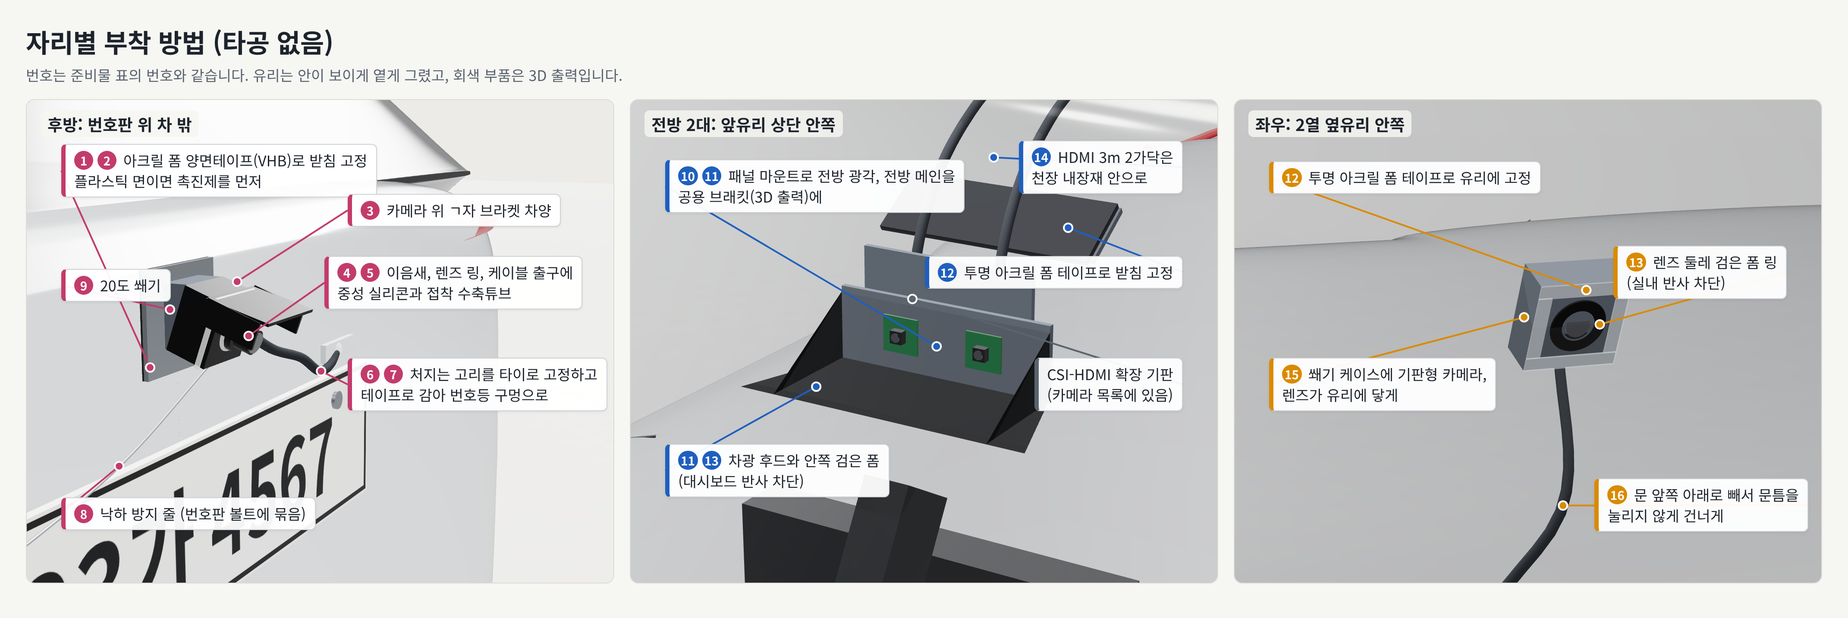
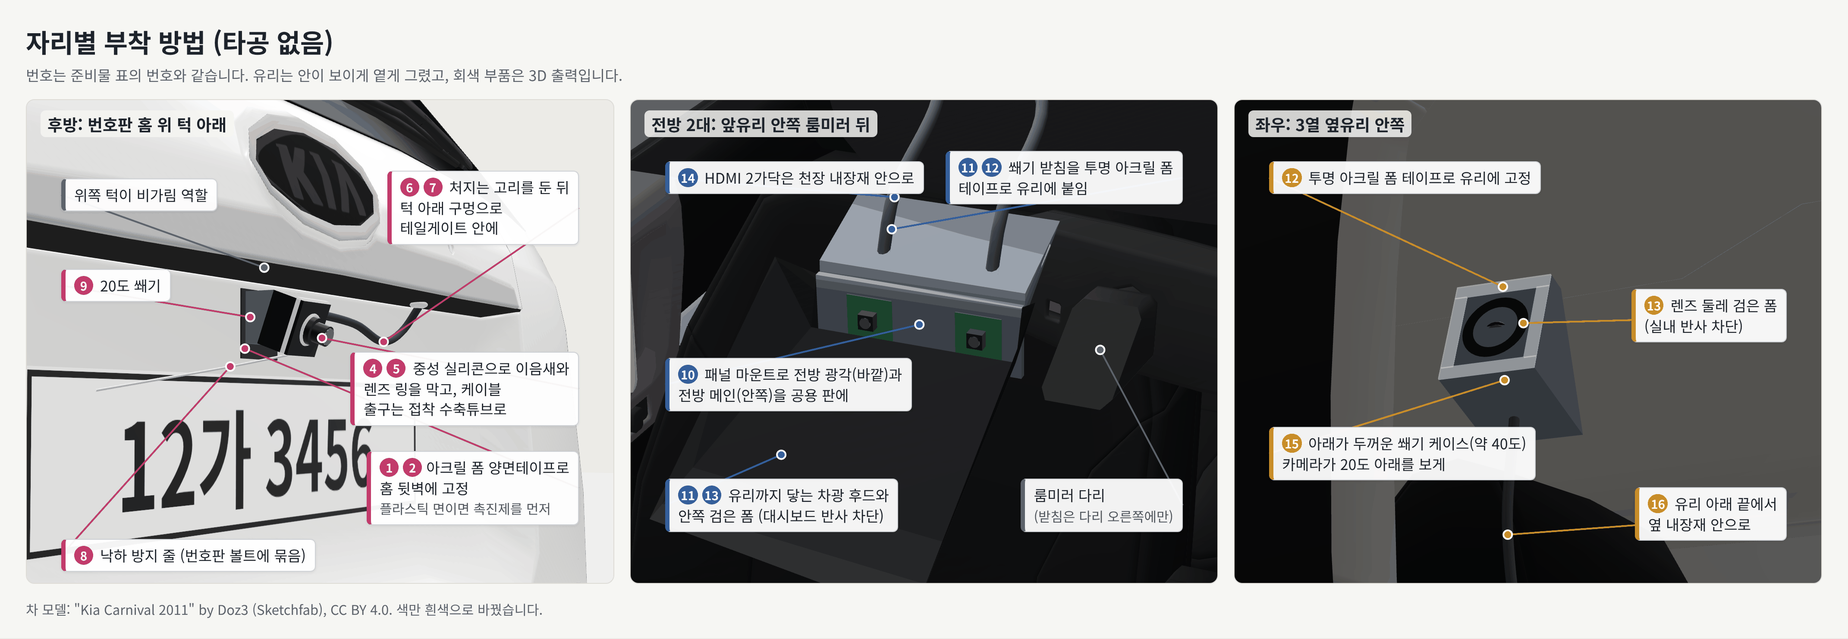
카니발 3D 모델로 카메라 자리 재기: 유리 각도와 쐐기각, 차체 가림, 배선 길이, 카니발 차체로 대수 시뮬레이션 다시 돌리기, 장착 그림 3장 다시 그리기

diff --git a/realityview/layout_sim.py b/realityview/layout_sim.py
@@ -114,6 +114,12 @@ MOUNTS: dict[str, tuple[tuple[float, float, float], float, float]] = {
     "side_glass": ((0.95, 0.82, 1.20), 90.0, 15.0),  # 2열 옆유리 앞쪽 안쪽
     # 사이드미러 아래(주차 보조 카메라가 달리는 자리). 좌표는 추정이다.
     "mirror": ((2.05, 1.03, 1.02), 90.0, 20.0),
+    # 기아 카니발 2011 롱바디(set_vehicle("carnival")와 함께 쓴다). 3D 모델에서 잰 자리다(20번 측정 문서).
+    "cv_wind_wide": ((2.244, -0.125, 1.53), 0.0, 3.0),  # 룸미러 다리 오른쪽, 전방 광각
+    "cv_wind_main": ((2.246, -0.065, 1.53), 0.0, 3.0),  # 룸미러 다리 오른쪽, 전방 메인
+    "cv_rear": ((-0.965, 0.00, 1.03), 180.0, 20.0),  # 번호판 홈 위 턱 아래
+    "cv_side2": ((1.15, 0.816, 1.378), 90.0, 20.0),  # 2열 슬라이딩 도어 유리 앞쪽 안쪽
+    "cv_side3": ((0.28, 0.812, 1.378), 90.0, 20.0),  # 3열 옆유리 안쪽
 }
 
 # 유리 안쪽에 달면 창틀(기둥)이 좌우 시야를 막는다. 값: (창이 향한 방향 도, 그 방향에서 좌우로 보이는 각 도).
@@ -184,10 +190,17 @@ class Layout:
         return sum(s.link == "usb" for s in self.specs)
 
 
+def _vmount(name: str) -> str:
+    """앞유리와 후방 자리 이름을 지금 차종의 자리로 바꾼다(카니발이면 cv_ 자리)."""
+    if VEHICLE == "carnival" and name in ("wind_wide", "wind_main", "rear"):
+        return "cv_" + name
+    return name
+
+
 def _front(wide: str = "cm3_wide", main: bool = False) -> list[CamSpec]:
-    out = [CamSpec("front", wide, "wind_wide", link="csi")]
+    out = [CamSpec("front", wide, _vmount("wind_wide"), link="csi")]
     if main:
-        out.append(CamSpec("front_main", "cm3", "wind_main", link="csi"))
+        out.append(CamSpec("front_main", "cm3", _vmount("wind_main"), link="csi"))
     return out
 
 
@@ -195,12 +208,30 @@ def side_layout(key: str, title: str, lens: str, mount: str, yaw: float | None =
                 main: bool = True, rear_lens: str = "imx291_160", rear_mount: str = "rear",
                 front_wide: str = "cm3_wide") -> Layout:
     """전방(광각, main이면 메인도), 후방, 좌우 한 쌍으로 된 배치. 좌우 카메라의 렌즈, 자리, 방향을 바꿔 볼 때 쓴다."""
-    return Layout(key, title, (*_front(front_wide, main), CamSpec("rear", rear_lens, rear_mount),
+    return Layout(key, title, (*_front(front_wide, main), CamSpec("rear", rear_lens, _vmount(rear_mount)),
                                *side_pair(lens, mount, yaw, pitch)))
 
 
+def _carnival_layouts(side_pitch: float, rear_lens: str) -> dict[str, Layout]:
+    """카니발 5대 배치. 전방 2대는 룸미러 다리 오른쪽, 후방은 번호판 홈 위 턱 아래이고, 좌우만 자리와 방향을 바꾼다."""
+    L = [
+        side_layout("cv5_side2", "카니발 5대: 좌우 2열 슬라이딩 도어 유리 안쪽", "imx291_160", "cv_side2", 90.0, side_pitch,
+                    rear_lens=rear_lens),
+        side_layout("cv5_side3", "카니발 5대: 좌우 3열 옆유리 안쪽", "imx291_160", "cv_side3", 90.0, side_pitch,
+                    rear_lens=rear_lens),
+        side_layout("cv5_side3_fwd", "카니발 5대: 좌우 3열 옆유리 안쪽, 앞으로 15도 돌림", "imx291_160", "cv_side3", 75.0,
+                    side_pitch, rear_lens=rear_lens),
+    ]
+    return {x.key: x for x in L}
+
+
 def make_layouts(side_pitch: float = 20.0, rear_lens: str = "imx291_160") -> dict[str, Layout]:
-    """비교할 배치 목록. side_pitch는 정측면을 보는 좌우 카메라를 아래로 숙인 각이다."""
+    """비교할 배치 목록. side_pitch는 정측면을 보는 좌우 카메라를 아래로 숙인 각이다.
+
+    차종을 카니발로 바꿨으면(set_vehicle) 카니발 배치만 돌려준다.
+    """
+    if VEHICLE == "carnival":
+        return _carnival_layouts(side_pitch, rear_lens)
     rear = [CamSpec("rear", rear_lens, "rear")]
     side90 = lambda lens: side_pair(lens, "bpillar", 90.0, side_pitch)  # noqa: E731 - 짧은 묶음
     L: list[Layout] = [
@@ -268,10 +299,30 @@ def make_layouts(side_pitch: float = 20.0, rear_lens: str = "imx291_160") -> dic
 # ---------------------------------------------------------------------------
 # 자차 차체가 가리는 곳
 # ---------------------------------------------------------------------------
-# 차체 치수는 04 문서(모델 Y). 불투명한 차체 윗면 높이(벨트라인, 보닛, 트렁크)는 추정값이다.
-EGO_X_REAR, EGO_X_FRONT, EGO_HALF_W = -1.011, 3.783, 0.96
-_EGO_TOP_X = np.array([-1.011, -0.60, 2.35, 3.783])  # 뒤끝, 뒷유리 아래, 앞유리 아래(카울), 앞끝
-_EGO_TOP_Z = np.array([1.10, 1.05, 1.05, 0.80])
+# 차종별 차체: (뒤끝 x, 앞끝 x, 반폭), 불투명한 차체 윗면(벨트라인, 보닛, 트렁크)의 높이 꺾은선 (x, z).
+# model_y는 04 문서 치수에 윗면 높이를 추정한 값(뒤끝, 뒷유리 아래, 앞유리 아래(카울), 앞끝)이다.
+# carnival은 기아 카니발 2011 롱바디 3D 모델을 윤거 1,685mm에 맞춰 잰 값이다(뒤끝, 뒷유리 아래, 카울, 보닛 셋, 앞끝).
+EGO_BODIES: dict[str, tuple[tuple[float, float, float], tuple[tuple[float, float], ...]]] = {
+    "model_y": ((-1.011, 3.783, 0.96), ((-1.011, 1.10), (-0.60, 1.05), (2.35, 1.05), (3.783, 0.80))),
+    "carnival": ((-1.087, 3.935, 0.98), ((-1.087, 1.19), (-0.93, 1.19), (2.80, 1.12), (3.30, 1.04), (3.70, 0.90),
+                                         (3.80, 0.80), (3.935, 0.60))),
+}
+VEHICLE = "model_y"
+EGO_X_REAR, EGO_X_FRONT, EGO_HALF_W = EGO_BODIES[VEHICLE][0]
+_EGO_TOP_X = np.array([p[0] for p in EGO_BODIES[VEHICLE][1]])
+_EGO_TOP_Z = np.array([p[1] for p in EGO_BODIES[VEHICLE][1]])
+
+
+def set_vehicle(name: str) -> None:
+    """자차 차종을 바꾼다. 차체 가림, 장면의 차 둘레 경로, 거리 구간, make_layouts()의 배치가 함께 바뀐다."""
+    global VEHICLE, EGO_X_REAR, EGO_X_FRONT, EGO_HALF_W, _EGO_TOP_X, _EGO_TOP_Z, EGO_CENTER_X
+    if name not in EGO_BODIES:
+        raise ValueError(f"모르는 차종: {name} (가능한 값: {', '.join(EGO_BODIES)})")
+    (EGO_X_REAR, EGO_X_FRONT, EGO_HALF_W), top = EGO_BODIES[name]
+    _EGO_TOP_X = np.array([p[0] for p in top])
+    _EGO_TOP_Z = np.array([p[1] for p in top])
+    EGO_CENTER_X = (EGO_X_REAR + EGO_X_FRONT) / 2.0
+    VEHICLE = name
 
 
 def ego_blocks(cam_pos: np.ndarray, pts: np.ndarray, skip: float = 0.25) -> np.ndarray:

diff --git a/scripts/sim_camera_count.py b/scripts/sim_camera_count.py
@@ -40,6 +40,7 @@ from realityview.bev import BevGrid  # noqa: E402
 #   /usr/bin/python3 scripts/sim_camera_count.py run --fps 13 --det base --seeds 2 --contact drop \
 #       --layouts c4_fender,c5_side160,c7_tesla --out out/measure/19_run_drop.json
 #   /usr/bin/python3 scripts/sim_camera_count.py report --in out/measure/19_run_model.json
+#   /usr/bin/python3 scripts/sim_camera_count.py run --vehicle carnival --fps model --out out/measure/20_run_carnival.json
 
 
 # ---------------------------------------------------------------------------
@@ -122,7 +123,7 @@ def cmd_coverage(args) -> None:
     labels = _split(args.labels, ls.SIZES, "물체")
     opts = _truth_opts(args)
     tasks = [(k, args.side_pitch, args.rear_lens, lab, args.det, args.step, opts) for k in keys for lab in labels]
-    with Pool(args.jobs) as pool:
+    with Pool(args.jobs, initializer=ls.set_vehicle, initargs=(args.vehicle,)) as pool:
         rows = pool.map(_coverage_task, tasks)
     print("| 배치 | 물체 | 보이는 칸 | 가까운 곳(5m) | 앞옆 | 옆 | 뒤옆 | 평균 검출 확률 |")
     print("|---|---|---|---|---|---|---|---|")
@@ -239,7 +240,7 @@ def run_batch(specs: list[tuple], scen_keys: list[str], det_keys: list[str], arg
                                  args.vehicle_center)))
     tasks.sort(key=lambda t: -t[0])
     rows, t0 = [], time.time()
-    with Pool(args.jobs) as pool:
+    with Pool(args.jobs, initializer=ls.set_vehicle, initargs=(args.vehicle,)) as pool:
         for i, (out, sec) in enumerate(pool.imap_unordered(_run_task, [t[1] for t in tasks]), 1):
             rows += out
             if not args.quiet:
@@ -364,7 +365,7 @@ def cmd_sweep(args) -> None:
                     specs.append(("side", key, lens, m, yaw, pitch, main))
                     meta[key] = {"mount": m, "lens": lens, "yaw": yaw, "pitch": pitch}
     opts = _truth_opts(args)
-    with Pool(args.jobs) as pool:
+    with Pool(args.jobs, initializer=ls.set_vehicle, initargs=(args.vehicle,)) as pool:
         static = {r["layout"]: r for r in pool.map(_sweep_static, [(s, args.rear_lens, det_keys[0], opts, args.step) for s in specs])}
     rows = run_batch(specs, scen_keys, det_keys, args) if scen_keys else []
     by: dict = {}
@@ -405,6 +406,8 @@ def rows_for(by: dict, key: str, scen_keys: list[str]) -> list[dict]:
 # ---------------------------------------------------------------------------
 def _add_common(ap: argparse.ArgumentParser) -> None:
     ap.add_argument("--layouts", default="all", help="배치 이름(쉼표로 구분). all이면 전부")
+    ap.add_argument("--vehicle", default="model_y", choices=list(ls.EGO_BODIES),
+                    help="자차 차종. carnival이면 카니발 차체와 카니발 배치(cv5_)를 쓴다")
     ap.add_argument("--side-pitch", type=float, default=20.0, help="정측면을 보는 좌우 카메라를 아래로 숙인 각(도)")
     ap.add_argument("--rear-lens", default="imx291_160", help="후방 카메라 렌즈(LENSES의 이름)")
     ap.add_argument("--rule", default="partial", choices=["partial", "full"],
@@ -473,6 +476,7 @@ def build_parser() -> argparse.ArgumentParser:
 
 def main() -> None:
     args = build_parser().parse_args()
+    ls.set_vehicle(getattr(args, "vehicle", "model_y"))
     args.func(args)
 
 

diff --git a/tests/test_camera_count.py b/tests/test_camera_count.py
@@ -462,3 +462,46 @@ def test_five_cam_config_matches_simulated_layout():
     # USB 3대는 16:9 크기로 받아야 한다(받는 크기를 적지 않으면 드라이버가 4:3 모드를 고를 수 있다)
     usb = [c for c in cams if c.source["type"] == "usb"]
     assert len(usb) == 3 and all(c.source["capture"] == [1280, 720] and c.source["fourcc"] == "MJPG" for c in usb)
+
+
+# ---------------------------------------------------------------------------
+# 카니발 차체와 카니발용 설정 파일
+# ---------------------------------------------------------------------------
+def test_carnival_vehicle_switch():
+    """set_vehicle("carnival")은 차체 가림과 배치 목록을 카니발로 바꾸고, 되돌리면 모델 Y 값이 그대로다."""
+    try:
+        ls.set_vehicle("carnival")
+        assert set(ls.make_layouts()) == {"cv5_side2", "cv5_side3", "cv5_side3_fwd"}
+        wind = ls.MOUNTS["cv_wind_main"][0]
+        ahead = np.array([[ls.EGO_X_FRONT + 1.0, 0.0], [ls.EGO_X_FRONT + 3.0, 0.0]])
+        assert ls.ego_blocks(wind, ahead).tolist() == [True, False]  # 보닛 바로 앞 바닥은 가리고 3m 앞은 보인다
+        side = ls.MOUNTS["cv_side3"][0]
+        assert ls.ego_blocks(side, np.array([[0.3, 1.2]]))[0] and not ls.ego_blocks(side, np.array([[0.3, 2.2]]))[0]
+        for lay in ls.make_layouts().values():
+            assert lay.n == 5 and lay.n_usb == 3
+        with pytest.raises(ValueError):
+            ls.set_vehicle("unknown")
+    finally:
+        ls.set_vehicle("model_y")
+    assert ls.EGO_X_FRONT == 3.783 and "c5_side160" in ls.make_layouts()
+
+
+def test_five_cam_carnival_config_matches_simulated_layout():
+    """configs/five_cam_carnival.yaml이 카니발 배치 cv5_side3과 같은 자리, 방향, 렌즈를 쓰고 렌즈와 받는 크기는 five_cam.yaml과 같다."""
+    from realityview.config import load_config
+
+    cams, grid, _ = load_config(os.path.join(ROOT, "configs", "five_cam_carnival.yaml"))
+    base, _, _ = load_config(os.path.join(ROOT, "configs", "five_cam.yaml"))
+    try:
+        ls.set_vehicle("carnival")
+        sim = ls.make_layouts()["cv5_side3"].cameras()
+    finally:
+        ls.set_vehicle("model_y")
+    assert [c.name for c in cams] == [c.name for c in sim] == [c.name for c in base]
+    for c, r, b in zip(cams, sim, base):
+        assert (c.width, c.height, c.model) == (r.width, r.height, r.model)
+        assert np.allclose(c.K, r.K, atol=0.06) and np.allclose(c.K, b.K)
+        assert np.allclose(c.position, r.position) and c.yaw_deg == r.yaw_deg and c.pitch_deg == r.pitch_deg
+        assert c.max_fov_deg == r.max_fov_deg == b.max_fov_deg
+        assert c.source == b.source
+    assert (grid.x_min, grid.x_max, grid.y_min, grid.y_max) == (-15.0, 25.0, -12.0, 12.0)

diff --git a/docs/measurements/20_carnival_mount.md b/docs/measurements/20_carnival_mount.md
@@ -1,0 +1,131 @@
+# 20. 카니발 3D 모델로 잰 카메라 자리와 배선 길이
+
+이 문서는 사용자 차량과 같은 차종인 기아 카니발 2011의 3D 모델에서 카메라 자리, 유리 기울기, 차체 가림, 케이블 길이를 재고, 그 자리로 [19번 측정](19_camera_count_sim.md)의 카메라 대수 시뮬레이션을 다시 돌린 결과입니다. 실제 차를 잰 것이 아니라 공개된 3D 모델을 공식 제원 크기에 맞춘 것이라, 모든 값은 실제 차에서 줄자와 수평계로 다시 확인해야 합니다. 장착 방법과 준비물은 [07 문서](../07_vehicle_mount_and_training_plan.md)에 있고, 여기서 정한 자리는 `configs/five_cam_carnival.yaml`에 적었습니다.
+
+## 1. 결론
+
+카메라는 5대 그대로 둡니다. 카니발 차체와 아래 자리로 돌린 시뮬레이션에서 좌우를 3열 옆유리 안쪽에 단 배치는 차 둘레의 모든 칸을 한 대 이상이 보았고, 아홉 장면 전체에서 화면에 나온 비율이 0.916으로 모델 Y 기준 5대 배치(0.913)와 같은 수준이었습니다(6장).
+
+자리는 전방 광각과 전방 메인이 앞유리 안쪽 룸미러 다리 오른쪽, 후방이 테일게이트 번호판 홈의 위쪽 턱 아래(차 밖), 좌우가 3열 옆유리 안쪽입니다. 좌우를 2열 슬라이딩 도어 유리에 달면 문을 열 때마다 문이 뒤로 미끄러져 케이블이 움직이는 문과 차체 사이를 건너야 하고, 시뮬레이션의 후진 출차 장면에서도 3열 자리가 나았습니다(0.873과 0.794).
+
+모델 Y 기준으로 잡았던 각도 가운데 가장 크게 달라지는 것은 좌우 케이스입니다. 카니발의 옆유리는 위쪽이 차 안쪽으로 약 20도 기울어 있어, 렌즈를 유리에 바로 붙이면 카메라는 20도 위를 봅니다. 설정대로 20도 아래를 보게 하려면 케이스의 쐐기각이 약 40도여야 합니다. 앞유리는 룸미러 높이에서 수평으로부터 약 30도 기울어 있어, 전방 카메라를 3도 아래로 보게 하는 브래킷은 유리면과 카메라 판 사이를 약 63도로 잡습니다(계산값).
+
+라즈베리파이는 조수석 아래에 둡니다. 경로를 따라 잰 케이블 길이(여유 15% 포함)는 전방 약 3.8m, 좌우 약 2.8~3.8m, 후방 약 5.9m입니다. 그래서 전방 HDMI는 5m를 쓰고, 후방은 카메라 케이블 1m에 5m 리피터를 이으면 남는 길이가 거의 없어 리피터를 하나 더 준비합니다(7장).
+
+## 2. 모델과 크기 맞추기
+
+모델은 Sketchfab에 CC BY 4.0으로 공개된 "Kia Carnival 2011"(Doz3)입니다 [V1]. 모델에는 단위가 없어, 바퀴 네 개의 중심을 찾은 뒤 좌우 바퀴 중심 사이 거리(윤거)가 공식 값 1,685mm [V2]가 되도록 크기를 맞췄습니다. 좌표는 설정 파일과 같은 차량 좌표(X 전방, Y 좌측, Z 위, 원점은 뒷바퀴 축 가운데 바닥)로 옮겼습니다.
+
+| 항목 | 모델 | 롱바디(11인승) | 숏바디(9인승) |
+|---|---|---|---|
+| 축거 | 3,025mm | 3,020mm | 2,890mm |
+| 전장 | 5,022mm | 5,130mm | 4,810mm |
+| 전폭 | 1,987mm | 1,985mm | 1,985mm |
+| 전고 | 1,760mm(루프 랙 위 1,785mm) | 1,780mm | 1,760mm |
+
+공식 값은 2세대 카니발의 국내 제원이고 [V2], 영문 위키백과의 축거, 전장, 전폭도 같습니다 [V3]. 모델의 전폭은 사이드미러를 뺀 도장면의 폭이고, 전고는 루프 랙을 뺀 지붕 꼭대기와 루프 랙 위 끝을 함께 적었습니다. 공식 전고가 루프 랙을 넣은 값인지는 확인 필요입니다. 축거가 롱바디와 0.2% 안에서 맞고 숏바디와는 4.7% 달라, 모델은 롱바디(그랜드 카니발 11인승)입니다. 크기를 맞추는 데 쓰지 않은 전폭도 0.1% 안에서 맞습니다. 전장은 롱바디보다 2.1%(약 11cm) 짧아 앞뒤 끝이 덜 튀어나오게 만들어진 것으로 보이며 이유는 확인 필요입니다. 연식에 따른 제원 차이도 확인 필요입니다.
+
+사용자 차가 숏바디라면 축거가 13cm 짧아 앞뒤 거리가 들어간 값(3열 유리 위치, 케이블 길이)이 달라집니다. 숏바디의 후방 케이블은 축거 차이만큼 줄여 약 5.5m로 어림했습니다.
+
+재는 방법은 모두 같습니다. 모델의 차체, 유리, 실내(대시보드, 시트, 룸미러, 기둥 내장재)를 삼각형 면 그대로 두고, 카메라 자리에서 화면의 화소마다 시선을 쏘아 무엇에 먼저 닿는지를 셉니다. 렌즈 값은 `configs/five_cam.yaml`의 보정 전 값(768x432, Camera Module 3 Wide 초점거리 311px, Camera Module 3 564.3px, IMX291 160도 등거리 어안 315.5px)입니다. 유리 기울기는 붙일 자리 둘레 3cm 안의 유리 면에 점 25개를 찍어 평면을 맞춘 값입니다.
+
+## 3. 앞유리와 전방 2대
+
+앞유리는 휘어 있어 높이마다 기울기가 다릅니다. 가운데 근처의 기울기는 수평에서 바닥 위 1.45m 높이 33.6도, 1.50m 32.8도, 1.53m 29.8도, 1.56m 28.4도입니다. 모델의 앞유리는 평평한 면 조각을 이어 만든 것이라 1.52m와 1.60m 높이에서 기울기가 33.6도, 28.4도, 24.4도로 꺾이고, 위 값은 둘레 3cm를 평균한 것입니다. 실제 유리는 이 사이를 매끈하게 잇는 곡면이라 1.53m에서는 약 30도로 봅니다. 룸미러는 거울 몸체가 X 2.11~2.21m, Y −0.10~0.11m, Z 1.49~1.56m에 있고, 다리는 유리에 붙는 곳에서 Y −0.020~0.016m, Z 1.52~1.55m입니다.
+
+전방 2대는 다리 오른쪽(조수석 쪽)에 메인을 안쪽, 광각을 바깥쪽으로 6cm 간격을 두고 바닥 위 1.53m에 둡니다. 좌표는 메인 (2.246, −0.065, 1.53), 광각 (2.244, −0.125, 1.53)이고 렌즈 중심은 유리에서 약 1cm 안쪽입니다. 메인을 다리에 더 붙이지 않는 것은 차광 후드 때문입니다. 메인의 시선이 유리를 지나는 범위는 다리 높이에서 카메라 왼쪽 4.2cm까지 퍼지므로, 메인을 차 가운데에서 4.5cm 오른쪽에 두면 후드 왼쪽 벽이 다리에 걸립니다. 6.5cm 오른쪽에 두면 그 범위가 Y −0.023m에서 끝나 다리(Y −0.020m부터)와 3mm 떨어집니다.
+
+메인은 화면의 0.4%만 보닛 끝에 가리고, 화면 가운데 세로줄에서 바닥은 앞범퍼 앞 1.9m부터 보입니다. 광각은 화면 아래쪽 18%가 가려지고 바닥은 앞범퍼 앞 1.8m부터 보입니다. 가려진 18% 가운데 약 10%는 유리 너머의 보닛과 와이퍼 자리이고, 약 7%는 유리보다 가파르게 내려가 유리를 지나지 않는 시선이 닿는 대시보드 윗면입니다. 앞범퍼 바로 앞을 보지 못하는 것은 19번 측정 4.4절의 모델 Y와 같은 성질입니다.
+
+앞유리 자리의 약점은 유리를 비스듬히 지나는 시선이 많다는 것입니다. 유리에 75도보다 비스듬히 들어가는 시선이 메인 화면의 21%, 광각 화면의 32%이고 대부분 화면 아래쪽입니다. 이 각도에서는 유리 반사가 커져 대시보드가 화면에 비치기 쉬우므로 차광 후드를 꼭 둡니다. 후드 바닥판은 렌즈 아래 끝에서 시작해 메인 화면의 아래 끝 시선(수평에서 약 24도 아래)을 따라 내려가 유리에 닿게 만듭니다. 바닥판을 수평으로 두면 화면 아래쪽을 가립니다. 이 바닥판은 메인 화면을 가리지 않고, 광각은 화면 아래 두 모서리에서 차 앞 양옆의 바닥을 보는 시선(화면의 약 2%)을 가립니다. 이 시선은 모두 유리에 75도보다 비스듬히(가운데값 86도) 들어가 반사가 큰 곳이라 잃는 것이 적습니다. 나머지 길과 하늘을 보는 시선이 유리를 지나는 곳은 렌즈 앞 유리 점에서 경사를 따라 아래로 메인이 6.2cm 안(98%는 5.2cm 안), 광각이 12.8cm 안(98%는 7.1cm 안)입니다. 그래서 후드가 유리에 닿는 면은 경사 방향으로 약 10cm, 좌우로 약 20cm로 잡습니다. 이 범위 밖에서 유리를 지나는 광각의 시선은 화면의 1% 미만입니다.
+
+유리 기울기가 높이마다 달라 브래킷 각도는 실제로 붙일 자리(바닥 위 약 1.55m)에서 휴대폰 수평계로 잰 값으로 정합니다. 룸미러 뒤에 레인 센서나 블랙박스가 있는지는 확인 필요이고, 있으면 그 자리를 피해 오른쪽으로 옮기고 옮긴 만큼 설정 파일 좌표를 바꿉니다.
+
+## 4. 옆유리와 좌우 2대
+
+2열 슬라이딩 도어 유리와 3열 옆유리는 모두 위쪽이 차 안쪽으로 기울어 있습니다. 바닥 위 1.38m에서 잰 유리 바깥 방향 법선은 수평보다 20.5도(3열, X 0.28m), 20.9도(2열, X 1.15m) 위를 향합니다. 그래서 렌즈를 유리에 바로 붙이면 카메라는 약 20도 위를 보고, 설정의 20도 아래를 보게 하려면 카메라 축을 유리 법선에서 40.5도 아래로 돌려야 합니다. 10도 아래면 30.5도, 수평이면 20.6도입니다. 옆유리는 위로 갈수록 더 기울어 3열 유리 가운데에서 바닥 위 1.20m는 약 13도, 1.60m는 약 30도이고, 높이 1cm마다 약 0.4도씩 바뀝니다. 그래서 쐐기각은 실제로 붙일 높이에서 휴대폰 수평계로 잰 유리 기울기에 숙일 각도를 더해 정합니다.
+
+3열 옆유리에서 실내 기둥 내장재에 가리지 않는 투명한 부분은 X −0.35~0.35m, Z 1.22~1.58m이고, 2열 슬라이딩 도어 유리는 X 0.60~1.25m입니다. 좌우 카메라는 3열 유리 가운데쯤인 X 0.28m, 바닥 위 1.38m에 둡니다. 렌즈 중심의 Y는 ±0.812m입니다.
+
+| 숙인 각 | 쐐기각 | 바닥이 보이는 곳 | 75도 넘게 비스듬한 시선 |
+|---|---|---|---|
+| 20도 | 40.5도 | 차체 옆 0.66m부터 | 16% |
+| 10도 | 30.5도 | 차체 옆 1.04m부터 | 9% |
+| 0도 | 20.6도 | 차체 옆 1.54m부터 | 5% |
+
+바닥이 보이는 곳은 화면 가운데 세로줄에서 가장 가까운 바닥까지의 거리를 차체 옆면(Y 0.98m)부터 잰 값이고, 마지막 칸은 유리에 75도보다 비스듬히 들어가는 시선이 화면에서 차지하는 비율입니다. 20도로 숙이면 유리 너머의 차체와 실내 기둥 내장재가 화면 아래 모서리를 약 4% 가립니다.
+
+숙인 각은 설정대로 20도로 둡니다. 문 옆에 선 사람의 발과 연석이 차체 옆 0.66m부터 보이고, 시뮬레이션에서 10도와 20도의 결과가 같았기 때문입니다(6장). 대신 화면 아래 16%는 유리를 아주 비스듬히 지나 어둡고 반사가 큽니다. 케이스가 렌즈와 유리 사이를 검게 막고 있으면 유리에 비치는 것은 케이스 안쪽이라 겹쳐 보이는 상은 생기지 않고 어두워지기만 합니다. 첫 시험에서 화면 아래가 너무 어두우면 30도 쐐기(10도)로 바꿉니다.
+
+케이스는 유리 쪽이 트인 쐐기 모양입니다. 렌즈 앞면을 유리에서 6mm 안에 두면, 유리에 80도보다 덜 비스듬히 들어가는 시선(화면의 89%)은 렌즈 중심에서 유리에 내린 점을 기준으로 앞뒤 각 32mm, 아래 34mm, 위 4mm 안에서 유리를 지납니다(계산값). 그래서 유리 쪽 입구는 폭 약 70mm, 높이 약 40mm로 렌즈 아래쪽을 크게 트고, 그 테두리에 검은 폼을 둘러 유리에 붙입니다. 화면 아래 두 모서리(약 3%)는 시선이 유리와 나란하거나 안쪽을 향해 케이스 벽이 보입니다. 카메라를 40도 기울이면 기판 위 끝이 유리 쪽으로 들려, 기판이 38mm 각이고 렌즈 경통이 15mm라면 기판 위 끝과 유리 사이가 5mm 남짓입니다(가정에 따른 계산값). 케이스를 그리기 전에 B0202 기판과 렌즈의 실제 치수를 잽니다.
+
+2열 자리도 시야는 비슷했습니다(20도에서 가림 약 4%, 바닥은 차체 옆 0.67m부터). 3열을 고른 것은 케이블과 후진 장면 때문입니다. 3열 유리가 열리는 환기창인지, 커튼 에어백이 3열 유리 위까지 오는지는 확인 필요입니다. 열리는 창이면 시험 중에는 열지 않습니다. 3열에 사람이 타면 케이스가 머리 옆에 오므로 모서리를 둥글게 만듭니다.
+
+## 5. 후방
+
+테일게이트의 번호판 홈은 평평한 뒷벽이 X −0.93m, 바닥 위 0.88~1.06m에 있고, 그 아래는 아래쪽 턱(Z 0.80m)까지 비스듬히 내려가는 바닥입니다. 홈의 폭은 입구 기준으로 위쪽 약 0.90m, 아래쪽 약 0.84m이고, 뒷벽이 평평한 부분은 가운데 약 0.50m입니다. 위쪽 턱의 아랫면은 바닥 위 1.064m이고, 턱 끝은 X −0.999m라 뒷벽에서 약 7cm 나와 있습니다. 턱 끝에는 밝은 장식(Z 1.07~1.09m)이 있고 그 위에 KIA 엠블럼이 있습니다.
+
+후방 카메라는 이 턱 아래 가운데 (−0.965, 0, 1.03)에 두고 뒤를 보며 20도 숙입니다. 렌즈는 뒷벽에서 약 3cm 뒤, 턱 아랫면에서 약 3cm 아래입니다. 20도 쐐기를 홈 뒷벽에 붙이고 카메라를 쐐기에 붙이는 방식입니다. 이 자리에서 차체가 가리는 것은 화면 아래 두 모서리의 뒤범퍼 윗면으로 화면의 0.4%이고, 턱 끝은 카메라 축에서 위로 약 65도에 있어 화면에 들어오지 않습니다. 바닥은 뒤범퍼 뒤 0.50m부터 보입니다. 턱이 렌즈 위를 덮어 비가림이 되므로 따로 차양을 달지 않습니다.
+
+카메라는 번호판 위 끝과 턱 아랫면 사이의 틈에 들어가야 합니다. 그림은 긴 번호판을 홈 가운데보다 조금 아래(위 끝 Z 0.995m)에 그린 것으로, 이때 틈은 약 7cm입니다. 모델에는 번호판과 번호등이 없어, 번호판 종류(긴 번호판 또는 짧은 번호판)와 실제 높이, 번호등 자리, 카메라 케이스와 쐐기가 이 틈에 들어가는지는 확인 필요입니다.
+
+## 6. 카니발 차체로 돌린 카메라 대수 시뮬레이션
+
+`realityview/layout_sim.py`에 카니발 차체(뒤끝 X −1.087m, 앞끝 3.935m, 반폭 0.98m, 모델에서 잰 차체 윗면 높이)와 위 자리를 넣고, `scripts/sim_camera_count.py`에 `--vehicle carnival`로 고르게 했습니다. 비교한 배치는 전방 2대와 후방을 위 자리에 두고 좌우만 바꾼 셋입니다. cv5_side2는 2열 슬라이딩 도어 유리, cv5_side3는 3열 옆유리, cv5_side3_fwd는 3열 옆유리에서 앞으로 15도 돌린 배치이고 좌우는 모두 20도 숙였습니다. cv5_side3는 10도로 숙인 경우도 돌렸습니다. 기준은 같은 실행 조건으로 다시 돌린 모델 Y의 c5_side160입니다.
+
+![카니발 배치별 시야 지도](../images/carnival_coverage.png)
+
+위 그림은 왼쪽부터 cv5_side2, cv5_side3, cv5_side3_fwd의 시야 지도이고, 그리는 방법과 색은 19번 측정 4.1절과 같습니다(옅은 초록은 한 대, 진한 초록은 두 대 이상에 보이는 칸, 위쪽이 차 앞). 세 배치 모두 보이지 않는 칸이 없었고, 차 둘레 5m 안, 앞옆, 옆, 뒤옆 칸이 모두 한 대 이상에 보였습니다. 칸마다 검출될 확률의 평균은 차 0.98, 사람 0.96입니다.
+
+| 배치 | 화면에 나온 비율 | 후진 출차 | 분당 끊김 | 분당 ID 바뀜 |
+|---|---|---|---|---|
+| c5_side160(모델 Y) | 0.913 | 0.846 | 6.72 | 12.4 |
+| cv5_side2 | 0.912 | 0.794 | 6.69 | 12.0 |
+| cv5_side3 | 0.916 | 0.873 | 6.18 | 12.5 |
+| cv5_side3_fwd | 0.916 | 0.871 | 6.54 | 14.8 |
+| cv5_side3(10도) | 0.916 | 0.874 | 6.26 | 12.4 |
+
+화면에 나온 비율은 아홉 장면 전체에서 탑뷰 범위 안의 물체가 화면에 나온 비율이고, 후진 출차는 그 가운데 주차 칸에서 뒤로 빠지는 장면(backout)의 값입니다. 분당 끊김은 1초 넘게 화면에서 사라진 횟수입니다. 세 검출 모형(easy, base, hard)을 합친 값이고 FPS는 배치별 모형 FPS(13.5)입니다.
+
+3열 자리는 전체 비율, 후진 출차, 끊김에서 2열 자리보다 나았고, 교차로 정지 장면(cross)은 2열이 나았습니다(0.960과 0.937). 3열 자리를 앞으로 15도 돌리면 전체 비율은 같고 ID 바뀜이 분당 12.5회에서 14.8회로, 한 물체가 두 번 그려지는 시간이 분당 9.5초에서 18.4초로 늘어 정측면(yaw ±90도)을 그대로 둡니다. 10도와 20도는 거의 같았습니다. 앞쪽 25~40m의 물체가 화면에 나온 비율은 카니발 배치가 0.525, 모델 Y가 0.508입니다.
+
+## 7. 배선 경로와 길이
+
+라즈베리파이와 두 NPU는 조수석 아래(X 1.70m, Y −0.45m)에 둡니다. 햇볕이 닿지 않고([07 문서](../07_vehicle_mount_and_training_plan.md) 5.1절), 전방 HDMI가 내려오는 오른쪽 A필러와 USB가 지나는 오른쪽 문턱에 가깝습니다.
+
+| 케이블 | 경로 길이 | 여유 15% 포함 | 쓸 케이블 |
+|---|---|---|---|
+| 전방 HDMI 2가닥 | 3.3m | 3.8m | HDMI 5m |
+| 우측 USB | 2.4m | 2.8m | 카메라 1m와 연장 3m |
+| 좌측 USB | 3.3m | 3.8m | 카메라 1m와 연장 3m |
+| 후방 USB | 5.1m | 5.9m | 카메라 1m와 리피터 5m, 예비 리피터 5m |
+
+길이는 모델에서 경유점을 이어 잰 값에 여유 15%를 더한 어림값입니다. 전방은 카메라에서 천장 앞 가장자리, 오른쪽 A필러, 대시 옆, 조수석 발밑 옆을 지나 조수석 아래로 갑니다. 좌우는 3열 유리 아래에서 옆 내장재를 따라 내려와 문턱 몰딩 아래로 앞으로 오고, 좌측은 2열 앞 바닥 매트 아래로 오른쪽으로 건너옵니다. 후방은 턱 아래 구멍으로 테일게이트 안에 들어가 위쪽 경첩 쪽 주름관, D필러, 3열 옆, 오른쪽 문턱 몰딩을 지납니다.
+
+후방은 카메라 케이블 1m와 리피터 5m를 더한 6m가 여유를 포함한 5.9m와 거의 같습니다. 그래서 리피터를 두 개 사서, 실제 경로가 6m를 넘으면 이어 씁니다. 라즈베리파이를 운전석과 조수석 사이에 두면 후방은 약 6.4m가 되어 처음부터 두 개를 이어야 합니다. 리피터는 허브 칩이 든 케이블이라 둘을 이으면 허브가 두 단이 되므로, 둘 다 5V 전원을 넣는 것을 기본으로 합니다(07 문서 2.3절).
+
+## 8. 한계와 확인 필요
+
+공개된 3D 모델이라 실제 차의 설계 도면과 같다는 보장이 없고, 특히 실내 내장재, 유리 곡률, 번호판 홈 모양은 실제 차와 다를 수 있습니다. 모델의 유리는 10~20cm 간격의 평평한 면으로 되어 있어 기울기 값은 1도 안팎의 오차를 봅니다. 전장이 제원보다 약 11cm 짧아, 범퍼 끝에서 잰 거리(바닥이 보이는 곳)와 후방 케이블 길이는 실제와 수 cm 다를 수 있습니다. 사용자 차가 롱바디인지 숏바디인지, 3열 유리가 열리는 창인지, 룸미러 뒤에 센서가 있는지, 번호판 종류와 번호등 자리는 확인 필요입니다. 3열 유리의 틴팅 농도는 야간 화질에 영향을 주므로 실제 차에서 먼저 봅니다. 렌즈 값은 보정 전 가정값이라, 비스듬한 시선의 비율과 바닥이 보이는 거리는 내부 보정 뒤 조금 달라질 수 있습니다.
+
+## 9. 다시 돌리는 명령
+
+```
+# 시야 지도와 그림(6장)
+python3 scripts/sim_camera_count.py coverage --vehicle carnival \
+  --figure docs/images/carnival_coverage.png --out out/sim/20_coverage.json
+# 카니발 배치 비교(6장), 좌우 10도
+python3 scripts/sim_camera_count.py run --vehicle carnival --fps model --out out/sim/20_run_carnival.json
+python3 scripts/sim_camera_count.py run --vehicle carnival --side-pitch 10 --layouts cv5_side3 --fps model \
+  --out out/sim/20_run_carnival_p10.json
+# 같은 조건의 모델 Y 기준
+python3 scripts/sim_camera_count.py run --layouts c5_side160 --fps model --out out/sim/20_run_model_y.json
+```
+
+카니발 차체 전환과 `configs/five_cam_carnival.yaml`의 시험은 `tests/test_camera_count.py`에 있습니다.
+
+## 출처
+
+- V1: [Kia Carnival 2011, Doz3, Sketchfab (CC BY 4.0)](https://sketchfab.com/3d-models/kia-carnival-2011-855c464351f244cbaafa8269a5d472df)
+- V2: [기아 카니발, 위키백과](https://ko.wikipedia.org/wiki/기아_카니발)
+- V3: [Kia Carnival, Wikipedia](https://en.wikipedia.org/wiki/Kia_Carnival)

diff --git a/docs/progress.md b/docs/progress.md
@@ -43,7 +43,9 @@
 
 빠른 재보정 도구를 만들었습니다. `scripts/recalib_markers.py`는 바닥 마커 4개 이상으로 카메라 각도만 다시 구하고(확인 후 `--write`), `--calib-monitor`는 주행 중 차선 소실점으로 pitch와 yaw가 1도 넘게 벗어나면 경고하며(시뮬레이션에서 1~2도 틀어짐을 찾음), `scripts/check_overlap.py`는 두 카메라가 함께 보는 바닥이 맞물리는지 봅니다. 절차는 [모형 보정 문서](phase1_model_rig_calibration.md) 9장에 있습니다.
 
-차에 달 카메라는 5대로 정했습니다. 앞유리 안쪽의 전방 광각과 전방 메인은 CSI로 달고, 후방(번호판 위)과 좌우는 대각 160도 USB 카메라로 답니다. 좌우는 B필러 자리(처음에는 2열 옆유리 안쪽)에서 옆을 정면으로 보고, 후방은 차 밖이라 방수 처리가 필요합니다. 지금의 2대와 4대에서 8대까지 모두 22개 배치를 아홉 장면에 넣어 비교한 시뮬레이션에서, 이 5대는 차를 한 바퀴 도는 사람을 끊김 없이 같은 ID로 따라갔고 물체가 화면에 나온 비율(표시 비율)은 8대보다 1.2%p 낮았습니다(0.913과 0.926). 앞범퍼 2.4m 안의 사람 위치, 뒤에서 차 사이로 오는 오토바이, 옆 차 너머의 보행자는 5대가 약한 곳입니다. 결과는 [19번 측정](measurements/19_camera_count_sim.md), 설정은 [configs/five_cam.yaml](../configs/five_cam.yaml), 제품과 판매처는 [06 문서](06_pi5_camera_selection.md)에 있습니다.
+차에 달 카메라는 5대로 정했습니다. 앞유리 안쪽의 전방 광각과 전방 메인은 CSI로 달고, 후방(번호판 위)과 좌우는 대각 160도 USB 카메라로 답니다. 좌우는 B필러 자리(카니발에서는 3열 옆유리 안쪽)에서 옆을 정면으로 보고, 후방은 차 밖이라 방수 처리가 필요합니다. 지금의 2대와 4대에서 8대까지 모두 22개 배치를 아홉 장면에 넣어 비교한 시뮬레이션에서, 이 5대는 차를 한 바퀴 도는 사람을 끊김 없이 같은 ID로 따라갔고 물체가 화면에 나온 비율(표시 비율)은 8대보다 1.2%p 낮았습니다(0.913과 0.926). 앞범퍼 2.4m 안의 사람 위치, 뒤에서 차 사이로 오는 오토바이, 옆 차 너머의 보행자는 5대가 약한 곳입니다. 결과는 [19번 측정](measurements/19_camera_count_sim.md), 설정은 [configs/five_cam.yaml](../configs/five_cam.yaml), 제품과 판매처는 [06 문서](06_pi5_camera_selection.md)에 있습니다.
+
+차량이 기아 카니발 2011이라, 같은 차종의 공개 3D 모델을 공식 제원 크기에 맞춰 카메라 자리와 각도, 케이블 길이를 쟀습니다. 모델은 롱바디(축거 3,020mm)와 맞았습니다. 자리는 전방 2대가 앞유리 안쪽 룸미러 다리 오른쪽(바닥 위 1.53m), 좌우가 3열 옆유리 안쪽, 후방이 번호판 홈의 위쪽 턱 아래(차 밖)입니다. 옆유리가 위쪽으로 약 20도 기울어 있어 좌우 케이스는 약 40도 쐐기가 되고, 앞유리 브래킷은 유리면과 카메라 판 사이를 약 63도로 잡습니다. 이 자리로 시뮬레이션을 다시 돌려도 5대로 충분했습니다(표시 비율 0.916, 모델 Y 기준 0.913). 파이는 조수석 아래에 두고, 전방 HDMI는 5m를 쓰며, 후방 USB는 약 5.9m라 리피터를 하나 더 준비합니다. 결과는 [20번 측정](measurements/20_carnival_mount.md), 설정은 [configs/five_cam_carnival.yaml](../configs/five_cam_carnival.yaml), 장착 방법은 [07 문서](07_vehicle_mount_and_training_plan.md)에 있습니다.
 
 ## 장비 구성
 
@@ -108,7 +110,8 @@ cd ~/Desktop/App/fsd_diff_npu && python ~/Desktop/App/fsd_agent.py --task-file d
 8. 데스크탑 WSL2에 학습 환경을 설치하고 `python3 -m pytest -q training`이 통과하는지 확인. 그다음 Grounding DINO와 SAM 2 설치, 지금 쓰는 YOLOv8s를 다시 변환해 파이 결과와 같은지 확인.
 9. Hailo DFC와 DX-COM 컴파일, FlashOcc 학습이 필요해지면 x86 리눅스 GPU 서버 연결.
 10. 5대 구성 카메라 구매(제품과 판매처는 [06 문서](06_pi5_camera_selection.md)). 받으면 USB 카메라 3대를 포트마다 하나씩 꽂아 `lsusb -t`와 `dmesg`로 대역 문제가 없는지, 5V 5A 전원에서 전류가 모자라지 않은지 봅니다. 좌우 카메라의 수평 화각은 실제로 쓸 해상도(1280x720)에서 내부 보정으로 잽니다(130도 이상이어야 함). 이어서 사람이 좌우 카메라 화면 가장자리를 걷는 영상과 앞범퍼 바로 앞에 선 영상을 녹화해 두면, 이 결정이 기대는 두 가정(어안 가장자리 검출, 보닛에 가려진 사람 검출)을 확인할 수 있습니다.
-11. 차량 장착 준비물 구매(목록과 판매처는 [07 문서](07_vehicle_mount_and_training_plan.md) 12장). 쐐기, 브래킷, 케이스 같은 3D 출력 부품은 실제 차에서 앞유리와 2열 옆유리의 기울기를 잰 뒤 맡깁니다.
+11. 차량 장착 준비물 구매(목록과 판매처는 [07 문서](07_vehicle_mount_and_training_plan.md) 12장). 쐐기, 브래킷, 케이스 같은 3D 출력 부품은 실제 차에서 앞유리와 3열 옆유리의 기울기를 잰 뒤 맡깁니다.
+12. 카니발 확인: 롱바디(11인승)인지 숏바디(9인승)인지, 3열 유리가 열리는 창인지, 룸미러 뒤에 센서나 블랙박스가 있는지, 번호판 종류와 번호등 자리를 사진으로 확인합니다. 숏바디라면 3열 자리와 케이블 길이를 다시 잽니다([20번 측정](measurements/20_carnival_mount.md) 8장).
 
 ## 알려진 문제
 

diff --git a/docs/measurements/19_camera_count_sim.md b/docs/measurements/19_camera_count_sim.md
@@ -4,7 +4,7 @@
 
 ## 1. 결론
 
-카메라는 5대로 정합니다. 앞유리 안쪽에 전방 광각과 전방 메인 2대를 CSI로 달고, 후방(뒷번호판 위)과 좌우(B필러 자리) 3대는 USB로 답니다. 후방과 좌우의 렌즈는 대각 160도(Arducam IMX291 160도)이고, 좌우 카메라는 옆을 정면으로 보게 달고 20도 아래로 숙입니다. 후방은 차 밖이라 방수 처리가 필요합니다(6장). 이 배치의 설정 파일은 configs/five_cam.yaml입니다.
+카메라는 5대로 정합니다. 앞유리 안쪽에 전방 광각과 전방 메인 2대를 CSI로 달고, 후방(뒷번호판 위)과 좌우(B필러 자리) 3대는 USB로 답니다. 후방과 좌우의 렌즈는 대각 160도(Arducam IMX291 160도)이고, 좌우 카메라는 옆을 정면으로 보게 달고 20도 아래로 숙입니다. 후방은 차 밖이라 방수 처리가 필요합니다(6장). 이 배치의 설정 파일은 configs/five_cam.yaml입니다. 실제 차량인 기아 카니발의 차체와 장착 자리로 다시 돌린 결과와 그 설정 파일은 [20번 측정](20_carnival_mount.md)에 있습니다.
 
 이 배치는 계획 3단계의 완료 기준([구현 계획](../03_pi5_hailo8_dxm1_implementation_plan.md) 4.4절)대로 차를 한 바퀴 도는 사람을 끊김 없이 같은 ID로 따라갔습니다. 아홉 장면 전체에서 탑뷰 범위 안의 물체가 화면에 나온 비율은 0.913이고 8대 배치는 0.926으로, 차이는 1.2%p입니다. 6~8대는 이 차이를 얻는 대신 모형 FPS가 13.0에서 11.1~8.4로 내려갑니다. 지금의 카메라 간 병합 방식에서는 한 물체가 두 번 그려지는 시간도 5대의 1.6~2.6배로 늘고, USB 포트가 모자라 허브가 필요하며 7대와 8대는 전원이 따로 들어가는 허브여야 합니다(7장). FPS를 모두 13으로 맞춰도 8대와의 차이는 거의 그대로였습니다(4.5절).
 
